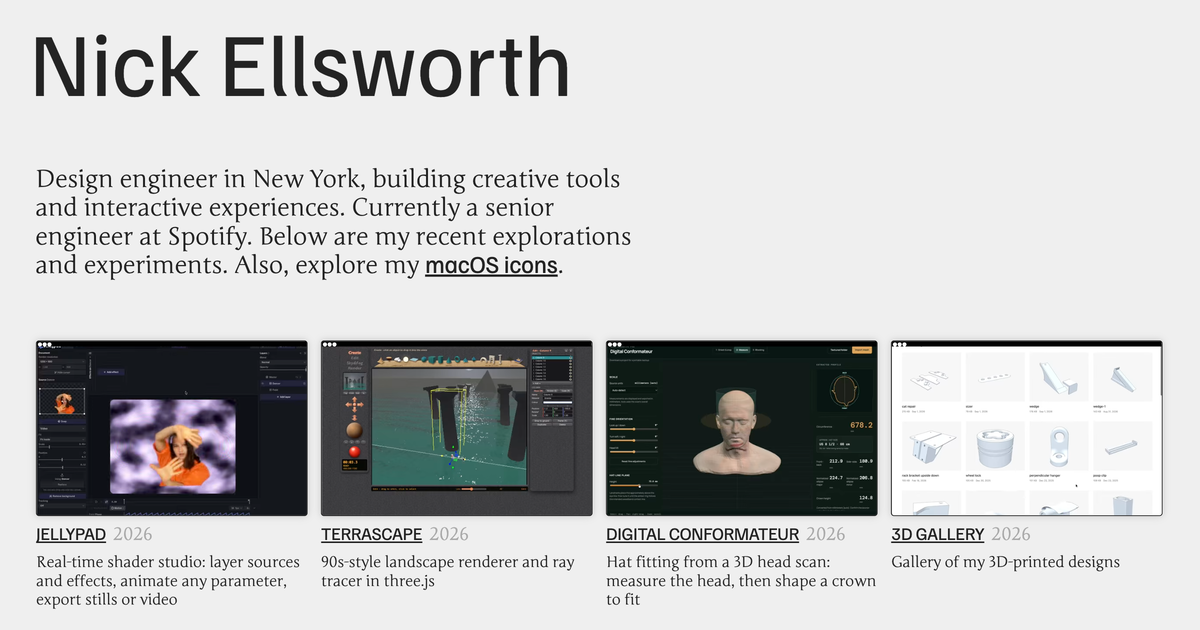
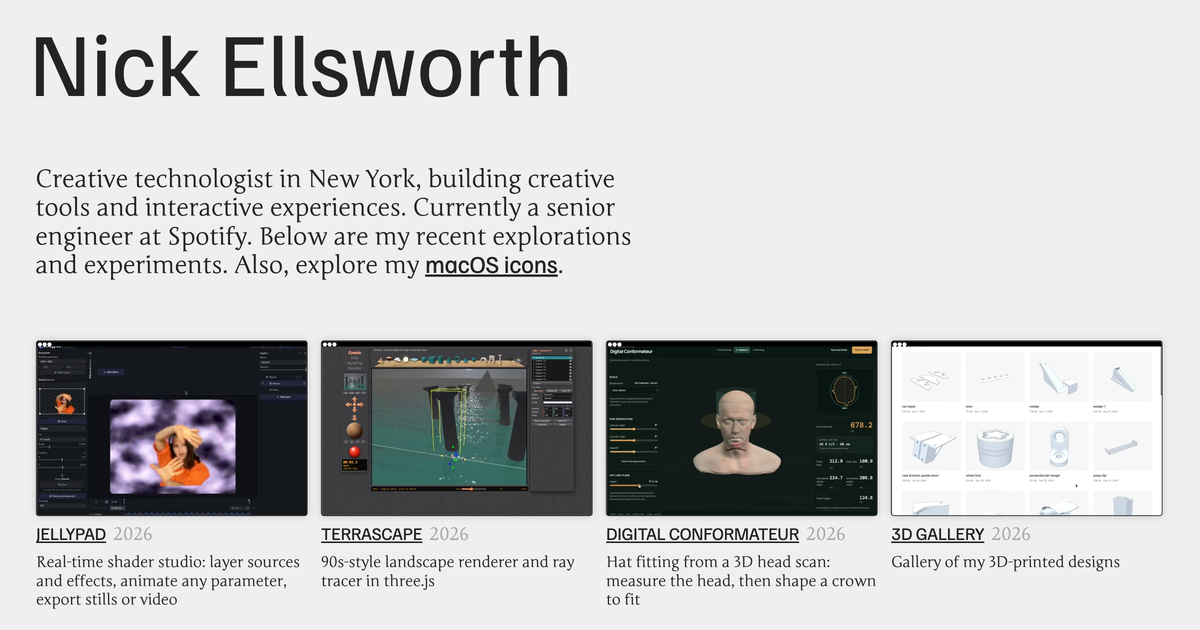
Swap the LLM tile for a line across the grid; creative technologist
The After/Before LLM divider is now one dotted line that cuts diagonally
through the era cell and runs off both screen edges, recomputed on resize
(flat in list view). Also fix the mover feeding its own transform back
into its measurements, which jiggled cards once the cursor left, and
retake og.png with the new intro.

Changed region(s): [[0.0308, 0.2714, 0.5242, 0.3619]]

diff --git a/src/scripts/era-line.js b/src/scripts/era-line.js
@@ -1,0 +1,126 @@
+// One line that splits the grid into after/before LLM.
+//
+// It runs along the gap above the era cell's row, cuts diagonally across
+// the cell, then runs along the gap below that row, so whatever the column
+// count, everything above/left of it is "after" and below/right is "before".
+//
+//   ──────────────────────────────
+//   [after] [after] [after] [after]
+//   ─────────────────╮ ╭───────────
+//   [after] [after]   ╱  [before] [before]
+//                    ╱
+//   ───────────────╯ ╰ ...
+//
+// Positions come from offsetLeft/Top (relative to the section), so the
+// mover's parallax transforms don't throw the measurements off.
+
+const NS = 'http://www.w3.org/2000/svg'
+const RADIUS = 40 // corner rounding, px
+
+// polyline -> path with each corner swapped for a curve. A corner's curve
+// takes up to half of each neighbouring segment, so short runs stay smooth.
+function roundedPath(pts, r) {
+  const f = (n) => n.toFixed(1)
+  let d = `M${f(pts[0][0])} ${f(pts[0][1])}`
+  for (let i = 1; i < pts.length - 1; i++) {
+    const [px, py] = pts[i - 1]
+    const [x, y] = pts[i]
+    const [nx, ny] = pts[i + 1]
+    const lin = Math.hypot(x - px, y - py)
+    const lout = Math.hypot(nx - x, ny - y)
+    const k = Math.min(r, lin / 2, lout / 2)
+    const ax = x - ((x - px) / lin) * k
+    const ay = y - ((y - py) / lin) * k
+    const bx = x + ((nx - x) / lout) * k
+    const by = y + ((ny - y) / lout) * k
+    d += ` L${f(ax)} ${f(ay)} Q${f(x)} ${f(y)} ${f(bx)} ${f(by)}`
+  }
+  const [ex, ey] = pts[pts.length - 1]
+  return d + ` L${f(ex)} ${f(ey)}`
+}
+
+export default function eraLine() {
+  const section = document.getElementById('projects')
+  const card = section?.querySelector('.era-card')
+  const tile = card?.querySelector('.era')
+  if (!tile) return
+
+  section.classList.add('has-era-line')
+  // the labels sit on the line, so the cell has to sit still
+  card.dataset.still = ''
+
+  const svg = document.createElementNS(NS, 'svg')
+  svg.classList.add('era-path')
+  svg.setAttribute('aria-hidden', 'true')
+  const path = document.createElementNS(NS, 'path')
+  svg.appendChild(path)
+  section.appendChild(svg)
+
+  const draw = () => {
+    const items = [...section.children].filter(
+      (el) => el !== svg && el.offsetParent === section
+    )
+    const style = getComputedStyle(section)
+    const colGap = parseFloat(style.columnGap) || 0
+    const padBottom = (el) => parseFloat(getComputedStyle(el).paddingBottom) || 0
+
+    // Flat in list view (one column, nothing to cut around); diagonal in the grid
+    const flat = !section.classList.contains('grid')
+    section.classList.toggle('era-flat', flat)
+
+    if (flat) {
+      const y = tile.offsetTop + tile.offsetHeight / 2
+      path.setAttribute('d', `M${section.clientWidth} ${y} L0 ${y}`)
+      // (labels are placed by the .era-flat styles)
+      return
+    }
+
+    // the era cell (it stretches to fill its grid row)
+    const tx0 = tile.offsetLeft
+    const tx1 = tx0 + tile.offsetWidth
+
+    // rows: the era card's row, plus the ones either side
+    const rowTop = card.offsetTop
+    const tops = [...new Set(items.map((el) => el.offsetTop))].sort((a, b) => a - b)
+    const prevTop = tops.filter((t) => t < rowTop).pop()
+    const nextTop = tops.find((t) => t > rowTop)
+    const contentBottom = (top) =>
+      Math.max(
+        ...items
+          .filter((el) => el.offsetTop === top)
+          .map((el) => el.offsetTop + el.offsetHeight - padBottom(el))
+      )
+
+    // horizontal runs sit midway through the empty space between rows
+    const yAbove =
+      prevTop === undefined ? rowTop - 40 : (contentBottom(prevTop) + rowTop) / 2
+    const rowBottom = contentBottom(rowTop)
+    const yBelow = nextTop === undefined ? rowBottom + 40 : (rowBottom + nextTop) / 2
+
+    // one straight diagonal across the era cell, from the gap above its row
+    // (middle of the column gap on its right) to the gap below (on its left)
+    const xr = tx1 + colGap / 2
+    const xl = tx0 - colGap / 2
+
+    // both ends run flat off the edges of the screen (the section is full width)
+    const pts = [
+      [section.clientWidth, yAbove],
+      [xr, yAbove],
+      [xl, yBelow],
+      [0, yBelow],
+    ]
+
+    // labels ride the middle of the diagonal
+    const angle = Math.atan2(yBelow - yAbove, xr - xl)
+    tile.style.setProperty('--angle', `${angle}rad`)
+    tile.style.setProperty('--mx', `${(xr + xl) / 2 - tile.offsetLeft}px`)
+    tile.style.setProperty('--my', `${(yAbove + yBelow) / 2 - tile.offsetTop}px`)
+
+    path.setAttribute('d', roundedPath(pts, RADIUS))
+  }
+
+  new ResizeObserver(draw).observe(section)
+  window.addEventListener('resize', draw)
+  document.fonts?.ready.then(draw)
+  draw()
+}

diff --git a/src/styles/index.less b/src/styles/index.less
@@ -374,71 +374,75 @@ section:last-of-type {
   }
 }
 
-// tile + blurb, laid out like a .thing card
+// the after/before cell: fills its grid row; the line through it is drawn
+// by src/scripts/era-line.js, which also sets --mx/--my/--angle for the labels
 .era-card {
   display: flex;
-  flex-direction: column;
-  gap: 8px;
   padding-bottom: 80px; // matches .thing
-  margin-left: -0.09 * 20px; // matches .thing's optical nudge (.mixin-body-font at the grid's 20px)
-  align-self: start;
-
-  // empty line where a card's title goes, so the blurb lines up with descriptions
-  .era-spacer {
-    font-size: 1.17 * 20px; // a card h3: browser default 1.17em of the grid's 20px
-    margin-bottom: 10px - 8px; // h3 margin, minus the gap already between items
-    // a title mixes Familjen (name) and Junge (year); their baselines set the
-    // line height, so the blank line mixes them too
-    span:nth-child(2) {
-      font-family: 'Junge', serif;
-    }
-  }
-
-  .era-blurb {
-    font-family: 'Junge', serif;
-    font-size: 20px;
-    max-width: 360px;
-  }
+  align-self: stretch;
 }
 
 .era {
   position: relative;
-  // same box as .thing-video-wrapper: up to 360px of 619x400 video inside a 1px border
-  box-sizing: content-box;
-  border: 1px solid transparent;
-  max-width: 360px;
-  aspect-ratio: 619 / 400;
+  flex: 1;
+  min-height: 200px; // when it sits alone in a row (one column)
   font-family: 'Junge', serif;
   font-size: 20px;
 
-  .era-line {
-    position: absolute;
-    inset: 0;
-    width: 100%;
-    height: 100%;
-    line {
-      stroke: var(--main-content);
-      stroke-width: 1px;
-    }
-    .era-tint {
-      fill: var(--main-content);
-      opacity: 0.05;
-    }
-  }
-
-  // labels ride the diagonal: the tile is fixed at 619:400,
-  // so the line's angle is atan(400 / 619) = 32.87deg
   .era-after,
   .era-before {
     position: absolute;
-    top: 50%;
-    left: 50%;
+    top: var(--my, 50%);
+    left: var(--mx, 50%);
     white-space: nowrap;
+    // Junge has no italic; Familjen's real one is already loaded
+    font-family: 'Familjen Grotesk', sans-serif;
+    font-style: italic;
   }
   .era-after {
-    transform: translate(-50%, -50%) rotate(-32.87deg) translate(-3.5em, -0.75em);
+    transform: translate(-50%, -50%) rotate(calc(-1 * var(--angle, 33deg))) translate(-3.5em, -0.75em);
   }
   .era-before {
-    transform: translate(-50%, -50%) rotate(-32.87deg) translate(3.5em, 0.75em);
+    transform: translate(-50%, -50%) rotate(calc(-1 * var(--angle, 33deg))) translate(3.5em, 0.75em);
+  }
+}
+
+// the after/before line drawn across the grid (src/scripts/era-line.js)
+.era-path {
+  position: absolute;
+  top: 0;
+  left: 0;
+  // sized by CSS, never measured: a measured size can hold the page wider after a resize
+  width: 100%;
+  height: 100%;
+  pointer-events: none;
+  overflow: visible;
+  path {
+    fill: none;
+    stroke: var(--light-gray);
+    stroke-width: 2px;
+    stroke-dasharray: 0 6px; // zero-length dashes + round caps = dots
+    stroke-linecap: round;
+  }
+}
+// flat (list view): the era cell becomes a full-width row with the line through it
+#projects.era-flat {
+  .era-card {
+    grid-column: 1 / -1;
+  }
+  .era {
+    min-height: 3em;
+  }
+  // stacked flush left: "After LLM" just above the line, "Before LLM" just below
+  .era-after,
+  .era-before {
+    top: 50%;
+    left: 0;
+  }
+  .era-after {
+    transform: translateY(calc(-100% - 0.2em));
+  }
+  .era-before {
+    transform: translateY(0.2em);
   }
 }

diff --git a/index.html b/index.html
@@ -5,11 +5,11 @@
   <meta charset="UTF-8">
   <title>Nick Ellsworth</title>
   <meta name="viewport" content="width=device-width, initial-scale=1">
-  <meta name="description" content="Design engineer in New York, building creative tools and interactive experiences. Currently a senior engineer at Spotify.">
+  <meta name="description" content="Creative technologist in New York, building creative tools and interactive experiences. Currently a senior engineer at Spotify.">
   <meta property="og:type" content="website">
   <meta property="og:url" content="https://web.nick.media/">
   <meta property="og:title" content="Nick Ellsworth">
-  <meta property="og:description" content="Design engineer in New York, building creative tools and interactive experiences. Currently a senior engineer at Spotify.">
+  <meta property="og:description" content="Creative technologist in New York, building creative tools and interactive experiences. Currently a senior engineer at Spotify.">
   <meta property="og:image" content="https://web.nick.media/og.png">
   <meta property="og:image:width" content="1200">
   <meta property="og:image:height" content="630">
@@ -45,7 +45,7 @@
       Nick <nobr>Ellswor<span id="th">th</span></nobr>
     </p>
     <h2 id="copy">
-      Design engineer in New York, building creative tools and interactive experiences. Currently a senior engineer at Spotify. Below are my recent explorations and experiments. Also, explore my <a href="iconography">macOS icons</a>.
+      Creative technologist in New York, building creative tools and interactive experiences. Currently a senior engineer at Spotify. Below are my recent explorations and experiments. Also, explore my <a href="iconography">macOS icons</a>.
     </h2>
 
     <div class="grl-toggle-container">
@@ -122,15 +122,9 @@
     </a>
     <div class="era-card">
       <div class="era" role="separator" aria-label="Above: after LLM. Below: before LLM.">
-        <svg class="era-line" viewBox="0 0 100 100" preserveAspectRatio="none" aria-hidden="true">
-          <polygon class="era-tint" points="0,0 100,0 0,100" />
-          <line x1="100" y1="0" x2="0" y2="100" vector-effect="non-scaling-stroke" />
-        </svg>
         <span class="era-after">After LLM</span>
         <span class="era-before">Before LLM</span>
       </div>
-      <div class="era-spacer" aria-hidden="true"><span>&nbsp;</span><span>&nbsp;</span></div>
-      <p class="era-blurb">It took me a minute, but I'm a fan now.</p>
     </div>
     <a class="thing" href="glass-filter">
       <div class="thing-video-wrapper">

diff --git a/src/scripts/mover.js b/src/scripts/mover.js
@@ -1,3 +1,14 @@
+// viewport position from layout offsets, which ignore transforms
+const layoutPosition = (el) => {
+  let x = 0
+  let y = 0
+  for (let node = el; node; node = node.offsetParent) {
+    x += node.offsetLeft
+    y += node.offsetTop
+  }
+  return { x: x - window.scrollX, y: y - window.scrollY }
+}
+
 const move = () => {
   let mouseX = window.innerWidth / 2
   let mouseY = window.innerHeight / 2
@@ -12,7 +23,7 @@ const move = () => {
     mouseY = window.innerHeight / 2
   })
 
-  document.querySelectorAll('.thing, .era-card').forEach(thing => {
+  document.querySelectorAll('.thing, .era-card:not([data-still])').forEach(thing => {
     thing.style.transition = 'transform 0.3s ease-out'
   })
 
@@ -22,10 +33,14 @@ const move = () => {
   const raf = () => {
     requestAnimationFrame(raf)
 
-    document.querySelectorAll('.thing, .era-card').forEach(thing => {
-      const thingRect = thing.getBoundingClientRect()
-      const thingCenterX = thingRect.left + thingRect.width / 2;
-      const thingCenterY = thingRect.top + thingRect.height / 2;
+    document.querySelectorAll('.thing, .era-card:not([data-still])').forEach(thing => {
+      // Measure where the card sits without its own offset. The bounding rect
+      // includes the transform set here (mid-transition, too), so using it
+      // fed each frame's nudge back into the next: near the cursor the push
+      // direction kept flipping and the cards jiggled.
+      const { x, y } = layoutPosition(thing)
+      const thingCenterX = x + thing.offsetWidth / 2;
+      const thingCenterY = y + thing.offsetHeight / 2;
 
       const xSign = mouseX - thingCenterX > 0 ? 1 : -1
       const ySign = mouseY - thingCenterY > 0 ? 1 : -1

diff --git a/src/scripts/index.js b/src/scripts/index.js
@@ -9,6 +9,9 @@ import './videos.js'
 import '../components/site-footer.js'
 import '../components/google-analytics.js'
 
+import eraLine from './era-line.js'
+eraLine()
+
 import move from './mover.js'
 move()
 
